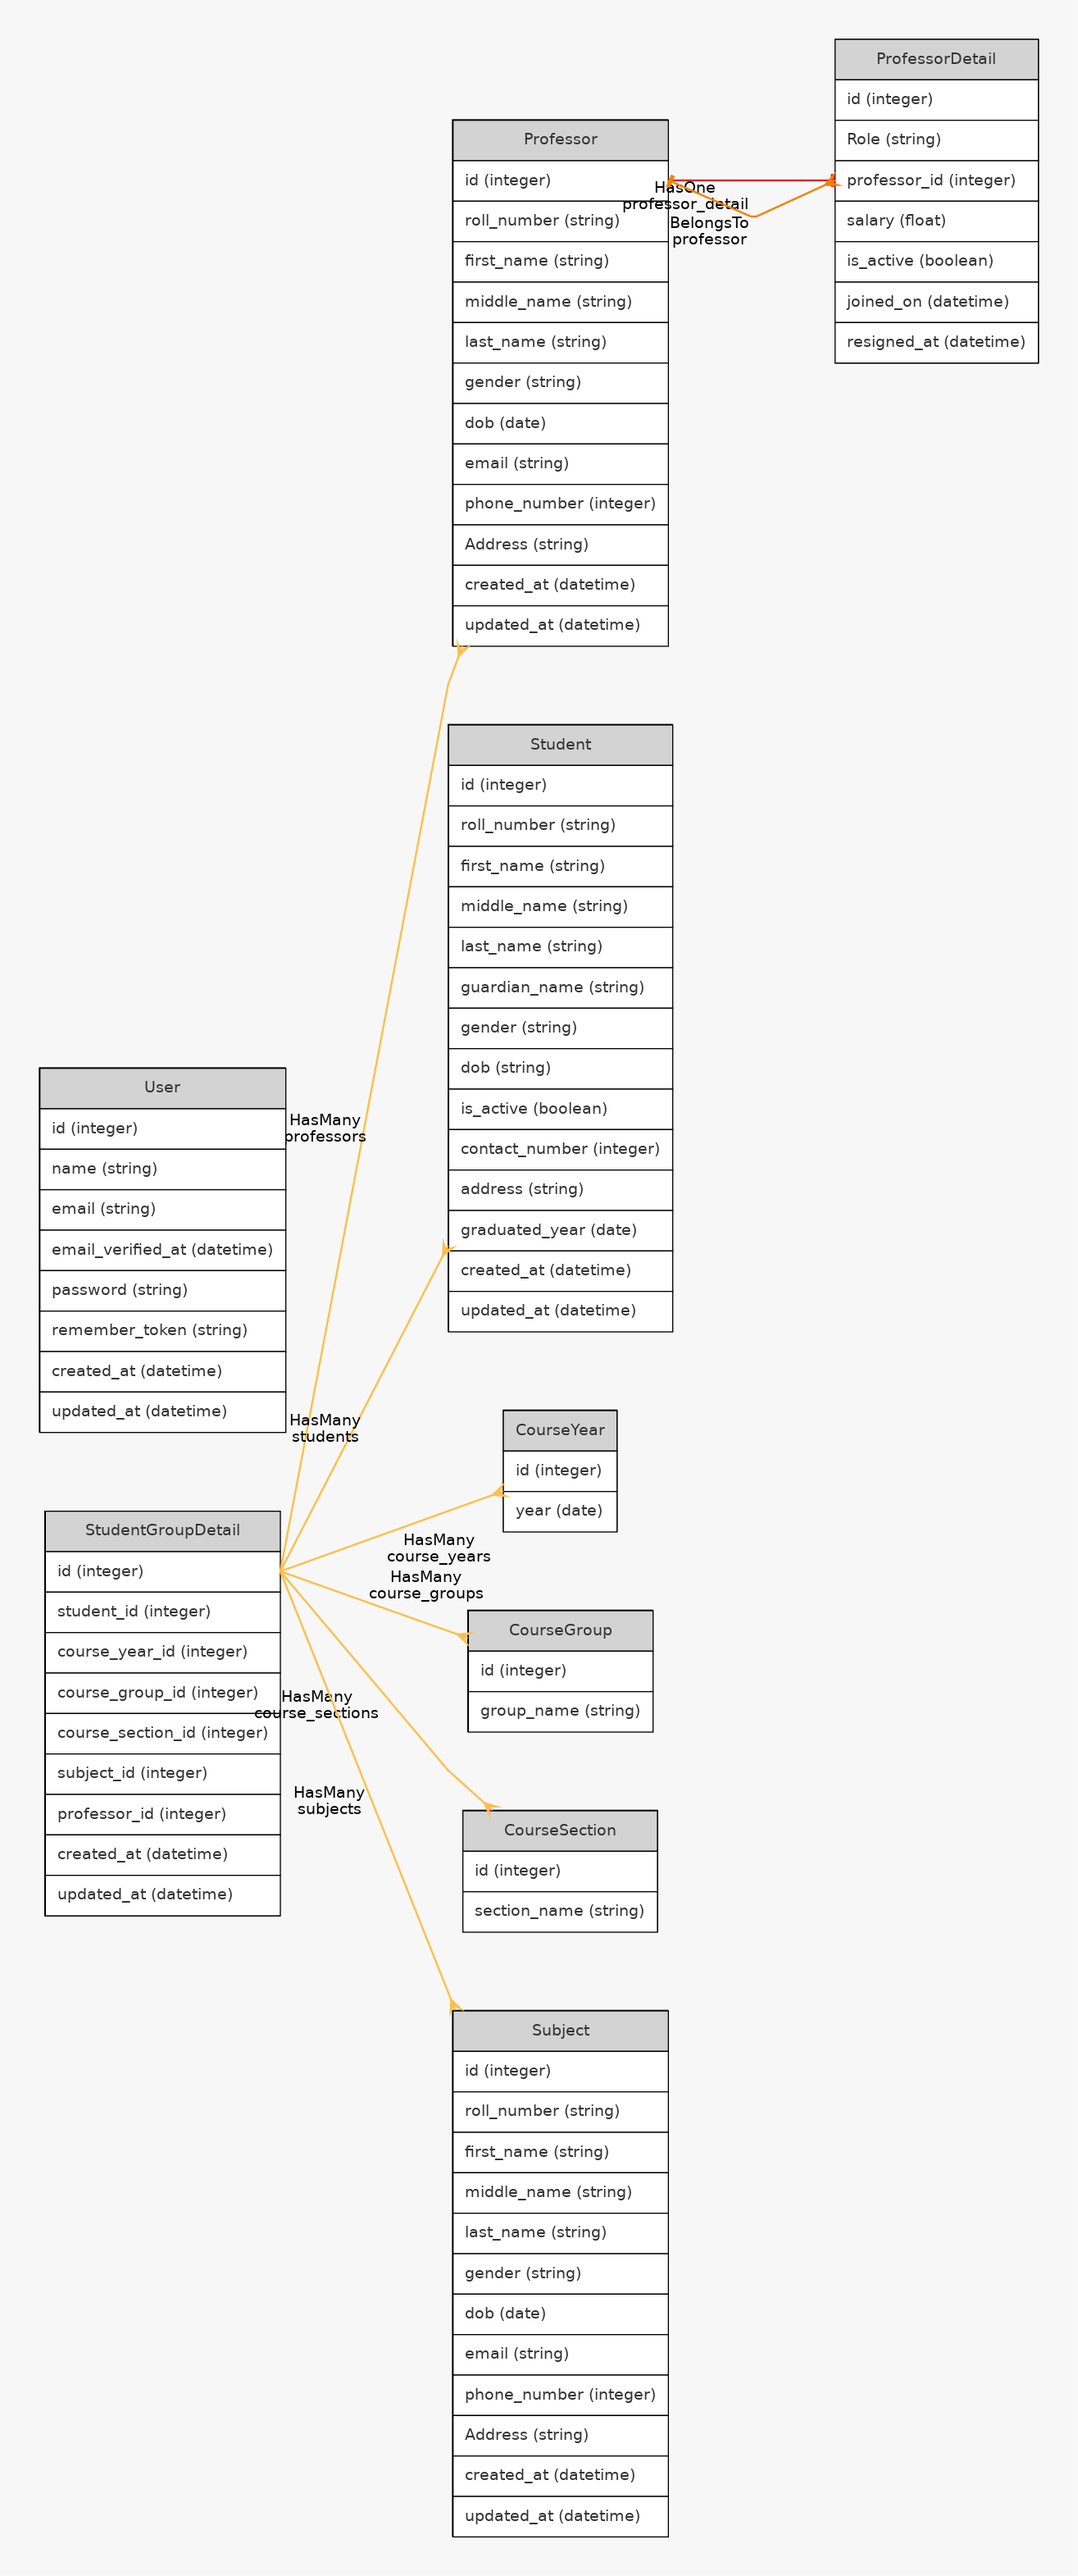
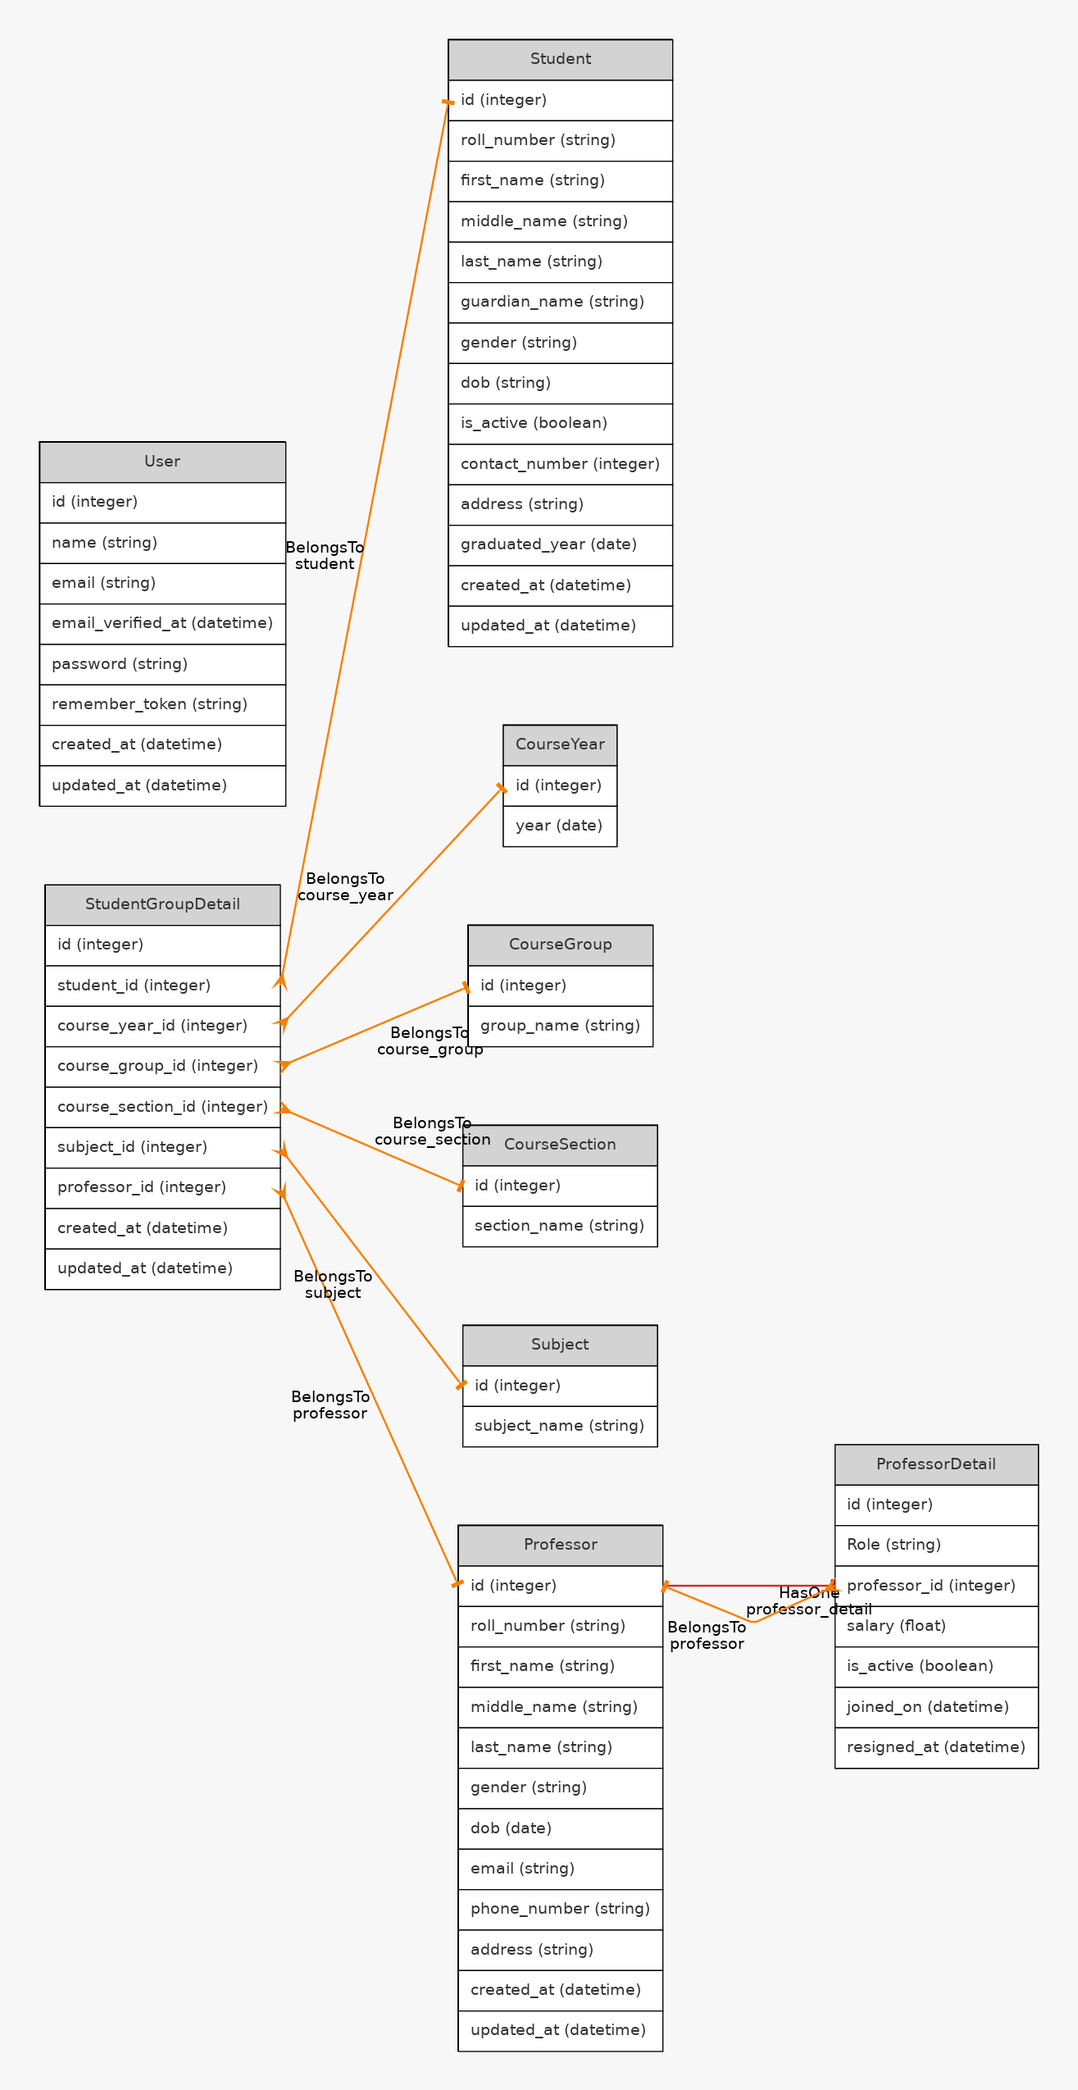
Adding Student Group Detail Controller

Changed region(s): [[0.0312, 0.0, 0.7171, 0.9918], [0.6859, 0.6818, 0.9665, 0.8368], [0.7483, 0.0, 0.9665, 0.155]]

diff --git a/app/Http/Controllers/StudentGroupDetailController.php b/app/Http/Controllers/StudentGroupDetailController.php
@@ -1,9 +1,9 @@
 <?php
 
 namespace App\Http\Controllers;
-
 use App\StudentGroupDetail;
 use Illuminate\Http\Request;
+use App\Student;
 
 class StudentGroupDetailController extends Controller
 {
@@ -14,7 +14,13 @@ class StudentGroupDetailController extends Controller
      */
     public function index()
     {
-        //
+        $studentGroupDetails = StudentGroupDetail::all();
+        $result = [];
+
+        foreach ($studentGroupDetails as $studentGroupDetail) {
+            $result [] = $this->ResultFormatter($studentGroupDetail);
+        }
+       return $result;
     }
 
     /**
@@ -44,9 +50,10 @@ class StudentGroupDetailController extends Controller
      * @param  \App\StudentGroupDetail  $studentGroupDetail
      * @return \Illuminate\Http\Response
      */
-    public function show(StudentGroupDetail $studentGroupDetail)
+    public function show($studentId)
     {
-        //
+        // $student = StudentGroupDetail::where('student_id', $studentId)->get();
+        // dd($student);
     }
 
     /**
@@ -82,4 +89,50 @@ class StudentGroupDetailController extends Controller
     {
         //
     }
+
+     /**
+     * Give you the specific reponse from resource.
+     *
+     * @param  \App\ProfessorDetail  $professorDetail
+     * @return \Illuminate\Http\Response
+     */
+    protected function ResultFormatter($studentGroupDetail) {
+		return [
+			'Id' => $studentGroupDetail->id,
+            [ 
+                'Id'                     => $studentGroupDetail->student->id,
+                'first_name'        => $studentGroupDetail->student->first_name,
+                'middle_name'   => $studentGroupDetail->student->middle_name,
+                'last_name'         => $studentGroupDetail->student->last_name,
+                'guardian_name' => $studentGroupDetail->student->guardian_name,
+                'roll_number'      => $studentGroupDetail->student->roll_number,
+                'gender'               => $studentGroupDetail->student->gender,
+                'is_active'            => $studentGroupDetail->student->is_active,
+                'contact_number' => $studentGroupDetail->student->contact_number,
+                'address'               => $studentGroupDetail->student->address,
+                'graduated_year'  => $studentGroupDetail->student->graduated_year,
+            ],
+            [
+                'Id'                        => $studentGroupDetail->course_year->id,
+                'Course Year'        => $studentGroupDetail->course_year->year,
+            ],
+            [
+                'Id'                        => $studentGroupDetail->course_group->id,
+                'Course Group'     => $studentGroupDetail->course_group->group_name,
+            ],
+            [
+                'Id'                                       => $studentGroupDetail->course_section->id,
+                'Course Section Name'       => $studentGroupDetail->course_section->section_name,
+            ],
+            [
+                'Id'                        => $studentGroupDetail->subject->id,
+                'Subject Name'        => $studentGroupDetail->subject->subject_name,
+            ],
+            [
+                'Id'                        => $studentGroupDetail->course_year->id,
+                'Course Year'        => $studentGroupDetail->course_year->year,
+            ],
+
+		];
+	}
 }

diff --git a/app/StudentGroupDetail.php b/app/StudentGroupDetail.php
@@ -19,48 +19,48 @@ class StudentGroupDetail extends Model
     /**
      * Get the students for the StudentGroupDetail.
      */
-    public function students()
+    public function student()
     {
-        return $this->hasMany('App\Student');
+        return $this->belongsTo('App\Student');
     }
 
     /**
      * Get the course_years for the StudentGroupDetail.
      */
-    public function course_years()
+    public function course_year()
     {
-        return $this->hasMany('App\CourseYear');
+        return $this->belongsTo('App\CourseYear');
     }
 
     /**
      * Get the course_groups for the StudentGroupDetail.
      */
-    public function course_groups()
+    public function course_group()
     {
-        return $this->hasMany('App\CourseGroup');
+        return $this->belongsTo('App\CourseGroup');
     }
 
     /**
      * Get the course_sections for the StudentGroupDetail.
      */
-    public function course_sections()
+    public function course_section()
     {
-        return $this->hasMany('App\CourseSection');
+        return $this->belongsTo('App\CourseSection');
     }
 
     /**
      * Get the subjects for the StudentGroupDetail.
      */
-    public function subjects()
+    public function subject()
     {
-        return $this->hasMany('App\Subject');
+        return $this->belongsTo('App\Subject');
     }
 
     /**
      * Get the professors for the StudentGroupDetail.
      */
-    public function professors()
+    public function professor()
     {
-        return $this->hasMany('App\Professor');
+        return $this->belongsTo('App\Professor');
     }
 }

diff --git a/routes/web.php b/routes/web.php
@@ -22,3 +22,4 @@ Route::resource('/courseYear', 'CourseYearController');
 Route::resource('/courseGroup', 'CourseGroupController');
 Route::resource('/courseSection', 'CourseSectionController');
 Route::resource('/subject', 'SubjectController');
+Route::resource('/StudentGroupDetail', 'StudentGroupDetailController');

diff --git a/app/Subject.php b/app/Subject.php
@@ -5,7 +5,7 @@ use Illuminate\Database\Eloquent\Model;
 
 class Subject extends Model
 {
-    protected $table = 'professors';
+    protected $table = 'subjects';
 
     protected $fillable = [
         'subject_name'

diff --git a/app/Http/Middleware/VerifyCsrfToken.php b/app/Http/Middleware/VerifyCsrfToken.php
@@ -24,6 +24,7 @@ class VerifyCsrfToken extends Middleware
         '/courseYear',
         '/courseGroup',
         '/courseSection',
-        '/subject'
+        '/subject',
+        '/StudentGroupDetail'
     ];
 }
